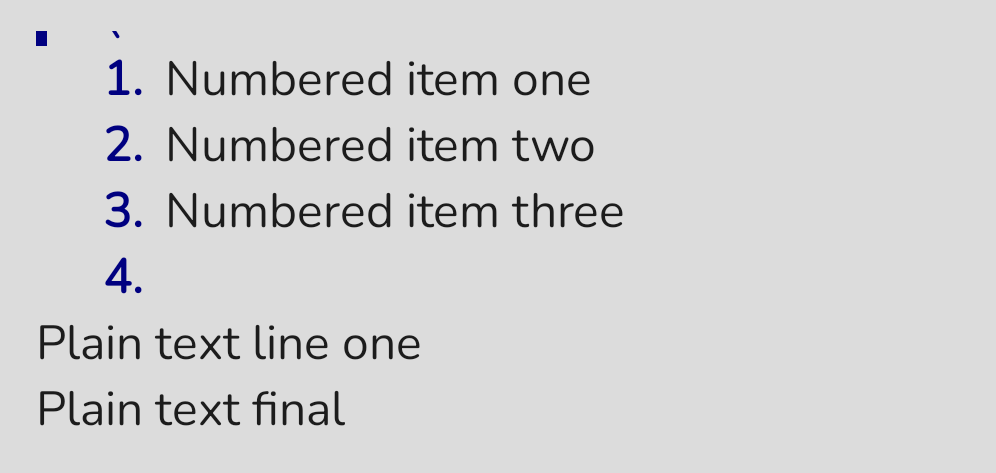
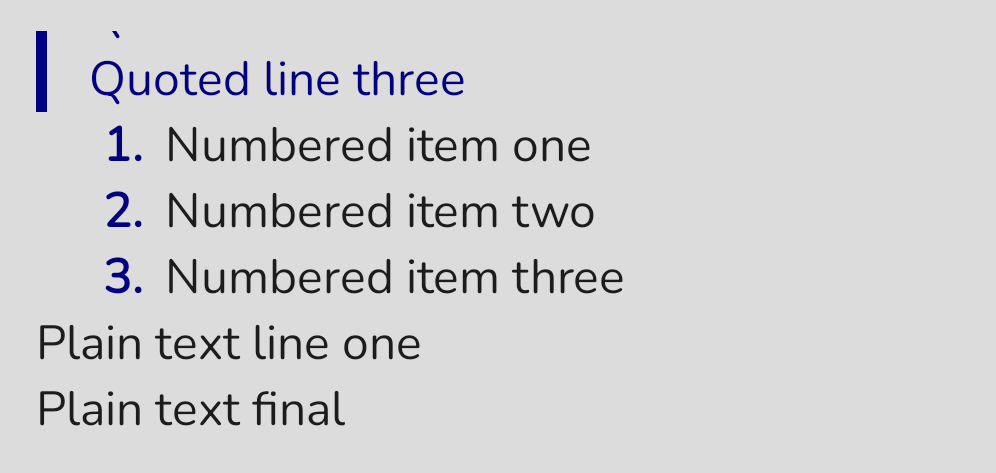
fix (iOS, Android, Web): Exit lists on empty item enter (#859)
# Summary

This PR fixes issue
https://github.com/software-mansion/react-native-enriched-html/issues/810,
initially reported on only iOS but happens on all platforms.

Entering an empty list item just kept adding more points instead of
terminating the style.

Now it finishes the list, which is a pretty uniform behaviour across
many text editors.

Works for all 3 list types (ordered, unordered, checked) on all 3
platforms.

## Test Plan

Launch any app, create a list and try entering an empty item.

## Screenshots / Videos

### After:

iOS: 

https://github.com/user-attachments/assets/1c345b55-f2f3-4c6a-9fb5-a50dcc06d086

Android: 

https://github.com/user-attachments/assets/d7dda992-88b2-4a15-a378-99b398109b38

Web:

https://github.com/user-attachments/assets/96929f48-408c-4578-b70c-6b56373e7ccf

## Compatibility

| OS      | Implemented |
| ------- | :---------: |
| iOS     |    ✅     |
| Android |    ✅     |
| Web     |    ✅     |

## Checklist

- [x] E2E tests are passing
- [x] Required E2E tests have been added (if applicable)

diff --git a/src/web/formats/listKeyboard.ts b/src/web/formats/listKeyboard.ts
@@ -1,16 +1,10 @@
-import { isTextSelection, type Editor, type JSONContent } from '@tiptap/core';
+import { isTextSelection, type Editor } from '@tiptap/core';
 
 import { lineStartBackspace } from './wrappedBlockKeyboard';
 import { withPreservedAlignment } from './formatRules';
 
-function emptyListItemContent(itemName: string): JSONContent {
-  return {
-    type: itemName,
-    content: [{ type: 'paragraph' }],
-  };
-}
-
-// Enter: always extend the list — splitListItem fails on an empty last item (see TipTap splitListItem).
+// Enter: extend the list — splitListItem fails on an empty item (see TipTap splitListItem),
+// in which case the item gets lifted out, ending the list.
 export function listEnter(editor: Editor, itemName: string): boolean {
   if (!editor.isActive(itemName)) {
     return false;
@@ -29,19 +23,9 @@ export function listEnter(editor: Editor, itemName: string): boolean {
     return false;
   }
 
-  // Flat lists only: list item is always the parent block of the paragraph (depth − 1).
-  const itemDepth = $from.depth - 1;
-  if (itemDepth < 1) {
-    return false;
-  }
-  const insertPos = $from.after(itemDepth);
-
-  return editor
-    .chain()
-    .focus()
-    .insertContentAt(insertPos, emptyListItemContent(itemName))
-    .scrollIntoView()
-    .run();
+  return withPreservedAlignment(editor, editor.chain(), (c) =>
+    c.focus().liftListItem(itemName)
+  );
 }
 
 // Backspace: first press at line start lifts the list item; second press (paragraph below list) joins backward.

diff --git a/.playwright/tests/listKeyboard.spec.ts b/.playwright/tests/listKeyboard.spec.ts
@@ -53,7 +53,9 @@ for (const {
       await gotoVisualRegression(page);
     });
 
-    test('Enter extends list', async ({ page }) => {
+    test('Enter extends list, Enter on empty item ends it', async ({
+      page,
+    }) => {
       const editor = editorLocator(page);
       const wrapper = page.locator(wrapperSelector);
       const items = wrapper.locator('li');
@@ -64,12 +66,18 @@ for (const {
       await items.first().click();
       await editor.press('End');
 
-      for (let i = 0; i < 3; i++) {
-        await editor.press('Enter', { delay: KEY_ACTION_DELAY });
-      }
+      await editor.press('Enter', { delay: KEY_ACTION_DELAY });
 
       await page.waitForTimeout(SCREENSHOT_STABILIZE_MS);
       await expect(editor).toHaveScreenshot(`list-keyboard-enter-${label}.png`);
+
+      await editor.press('Enter', { delay: KEY_ACTION_DELAY });
+      await page.keyboard.type('Plain');
+
+      await page.waitForTimeout(SCREENSHOT_STABILIZE_MS);
+      await expect(editor).toHaveScreenshot(
+        `list-keyboard-enter-exit-${label}.png`
+      );
     });
 
     test('Enter causes scrolling', async ({ page }) => {
@@ -86,7 +94,7 @@ for (const {
       await items.last().click();
       await page.keyboard.press('Enter', { delay: KEY_ACTION_DELAY });
 
-      await page.keyboard.type('\n\n\n\n\n', { delay: 10 });
+      await page.keyboard.type('d\ne\nf\ng\nh\n', { delay: 10 });
 
       await page.waitForTimeout(SCREENSHOT_STABILIZE_MS);
       await expect(editor).toHaveScreenshot(

diff --git a/android/src/main/java/com/swmansion/enriched/textinput/styles/ListStyles.kt b/android/src/main/java/com/swmansion/enriched/textinput/styles/ListStyles.kt
@@ -192,6 +192,17 @@ class ListStyles(
     }
 
     if (!isBackspace && isNewLine && isPreviousParagraphList(s, start, config.clazz)) {
+      // Enter in an empty list item ends the list instead of adding another empty item.
+      // Populated items also start with a ZWS, so the new paragraph has to be empty too.
+      val isPureInsertion = s.length == previousTextLength + 1
+      val (previousStart, previousEnd) = s.getParagraphBounds(start - 1)
+      if (isPureInsertion && start == end && s.substring(previousStart, previousEnd) == EnrichedConstants.ZWS_STRING) {
+        s.delete(start - 1, start)
+        removeSpansForRange(s, previousStart, previousEnd, config.clazz)
+        view.selection?.validateStyles()
+        return
+      }
+
       // Check if the span from the previous line "leaked" into this one
       if (spans.isNotEmpty()) {
         val existingSpan = spans[0]

diff --git a/ios/utils/ParagraphAttributesUtils.mm b/ios/utils/ParagraphAttributesUtils.mm
@@ -283,6 +283,66 @@
   input->textView.typingAttributes = resetAttrs;
 }
 
+// Pressing Enter in an empty list item (unordered, ordered or checkbox) ends
+// the list instead of adding yet another empty item.
++ (BOOL)handleNewlineInEmptyListItem:(NSRange)range
+                     replacementText:(NSString *)text
+                               input:(id)input {
+  EnrichedTextInputView *typedInput = (EnrichedTextInputView *)input;
+  if (typedInput == nullptr) {
+    return NO;
+  }
+
+  // Don't intervene during IME composition.
+  if (typedInput->textView.markedTextRange != nullptr) {
+    return NO;
+  }
+
+  // A single newline character only.
+  if (text.length != 1 || ![[NSCharacterSet newlineCharacterSet]
+                              characterIsMember:[text characterAtIndex:0]]) {
+    return NO;
+  }
+
+  NSString *string = typedInput->textView.textStorage.string;
+  NSRange paragraphRange = [string paragraphRangeForRange:range];
+
+  // Content of the paragraph without its trailing newline.
+  NSUInteger contentLength = paragraphRange.length;
+  if (contentLength > 0 &&
+      [[NSCharacterSet newlineCharacterSet]
+          characterIsMember:[string
+                                characterAtIndex:NSMaxRange(paragraphRange) -
+                                                 1]]) {
+    contentLength -= 1;
+  }
+
+  // An empty list item consists of exactly one zero-width space.
+  if (contentLength != 1 ||
+      [string characterAtIndex:paragraphRange.location] != 0x200B) {
+    return NO;
+  }
+  // We want the caret before or after the ZWS, or have the ZWS itself selected
+  // - a selection that also covers the trailing newline isn't handled here.
+  if (NSMaxRange(range) > paragraphRange.location + 1) {
+    return NO;
+  }
+
+  NSArray<NSNumber *> *listTypes = @[
+    @([UnorderedListStyle getType]), @([OrderedListStyle getType]),
+    @([CheckboxListStyle getType])
+  ];
+  for (NSNumber *type in listTypes) {
+    StyleBase *style = typedInput->stylesDict[type];
+    if (style != nullptr && [style detect:paragraphRange]) {
+      [style remove:paragraphRange withDirtyRange:YES];
+      return YES;
+    }
+  }
+
+  return NO;
+}
+
 + (BOOL)isParagraphEmpty:(NSRange)range inString:(NSString *)string {
   if (range.length == 0)
     return YES;

diff --git a/ios/EnrichedTextInputView.mm b/ios/EnrichedTextInputView.mm
@@ -2129,6 +2129,11 @@ Class<RCTComponentViewProtocol> EnrichedTextInputViewCls(void) {
       [ZeroWidthSpaceUtils handleBackspaceInRange:range
                                   replacementText:text
                                              host:self] ||
+      // Enter in an empty list item ends the list. Has to run before the
+      // checkbox newline handling.
+      [ParagraphAttributesUtils handleNewlineInEmptyListItem:range
+                                             replacementText:text
+                                                       input:self] ||
       [cbLStyle handleNewlinesInRange:range replacementText:text] ||
       [h1Style handleNewlinesInRange:range replacementText:text] ||
       [h2Style handleNewlinesInRange:range replacementText:text] ||

diff --git a/ios/utils/ParagraphAttributesUtils.h b/ios/utils/ParagraphAttributesUtils.h
@@ -12,6 +12,9 @@
 + (BOOL)handleResetTypingAttributesOnBackspace:(NSRange)range
                                replacementText:(NSString *)text
                                          input:(id)input;
++ (BOOL)handleNewlineInEmptyListItem:(NSRange)range
+                     replacementText:(NSString *)text
+                               input:(id)input;
 + (BOOL)isParagraphEmpty:(NSRange)range inString:(NSString *)string;
 + (void)resetTypingAttributes:(EnrichedTextInputView *)input
           preservingAlignment:(NSTextAlignment)alignment;
